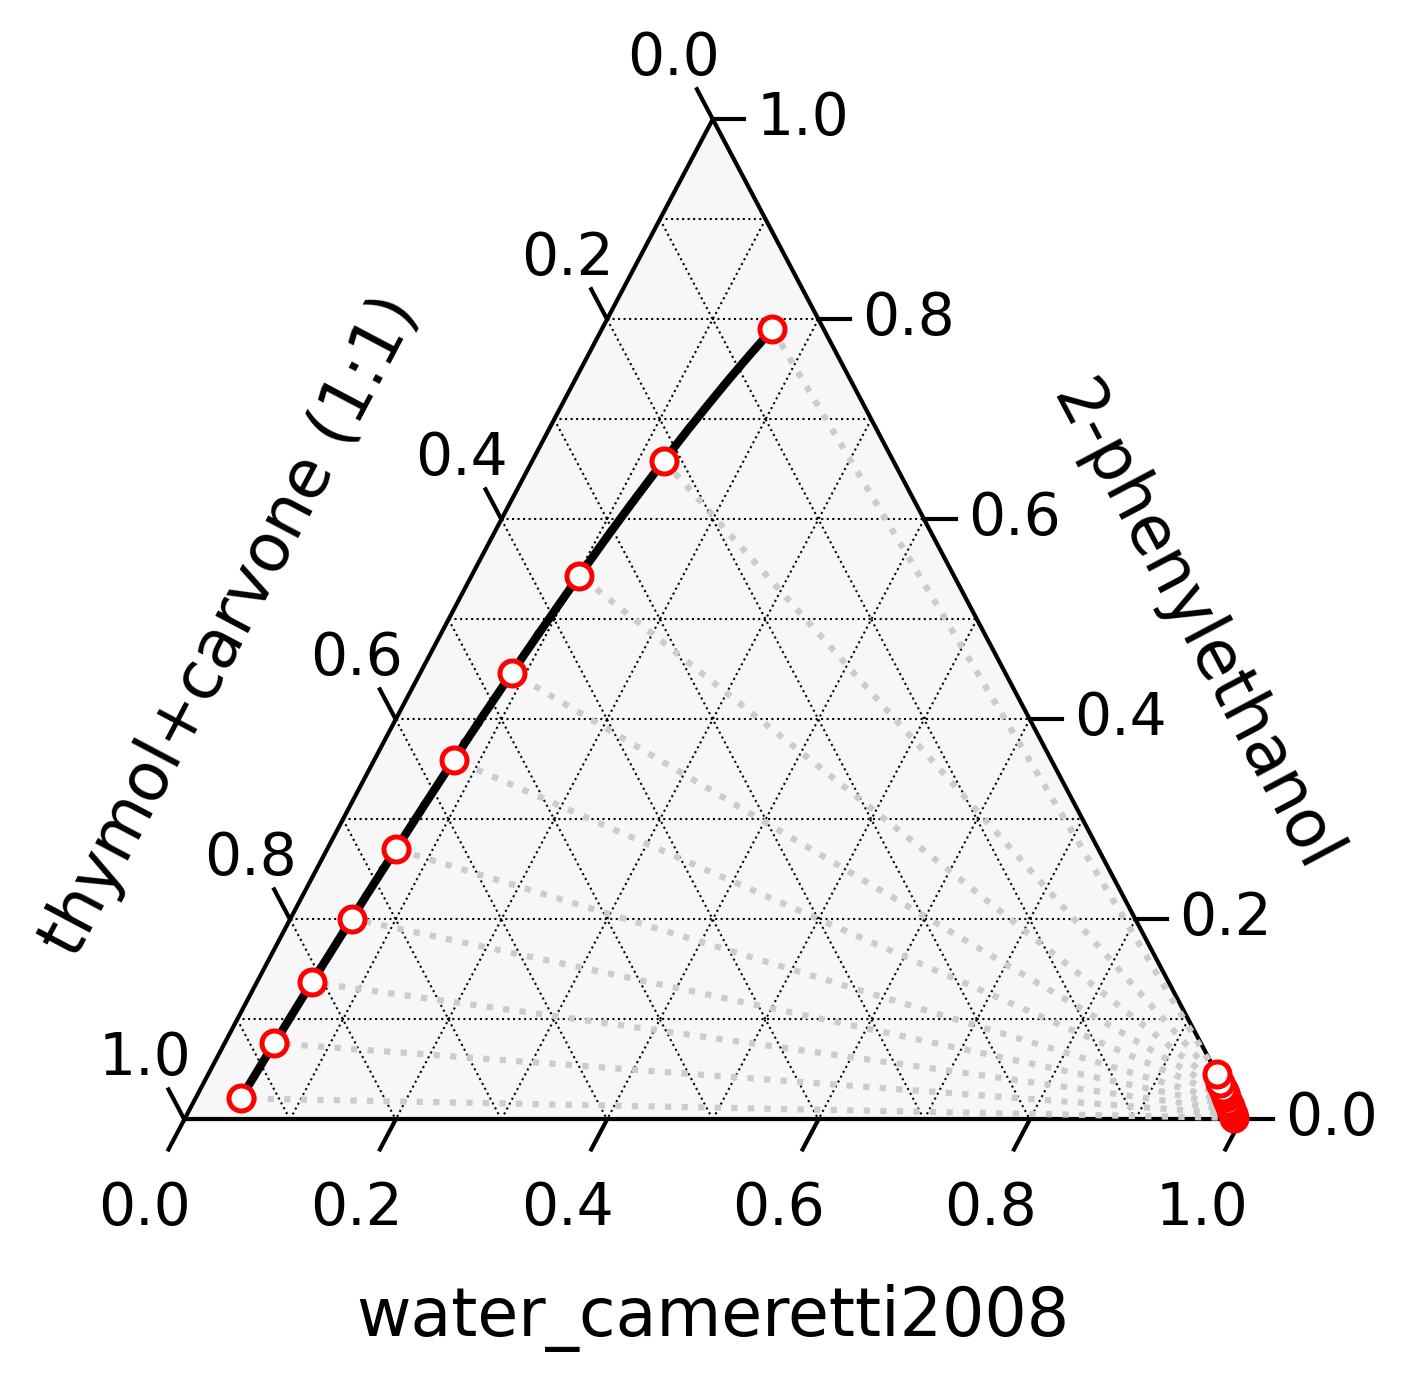
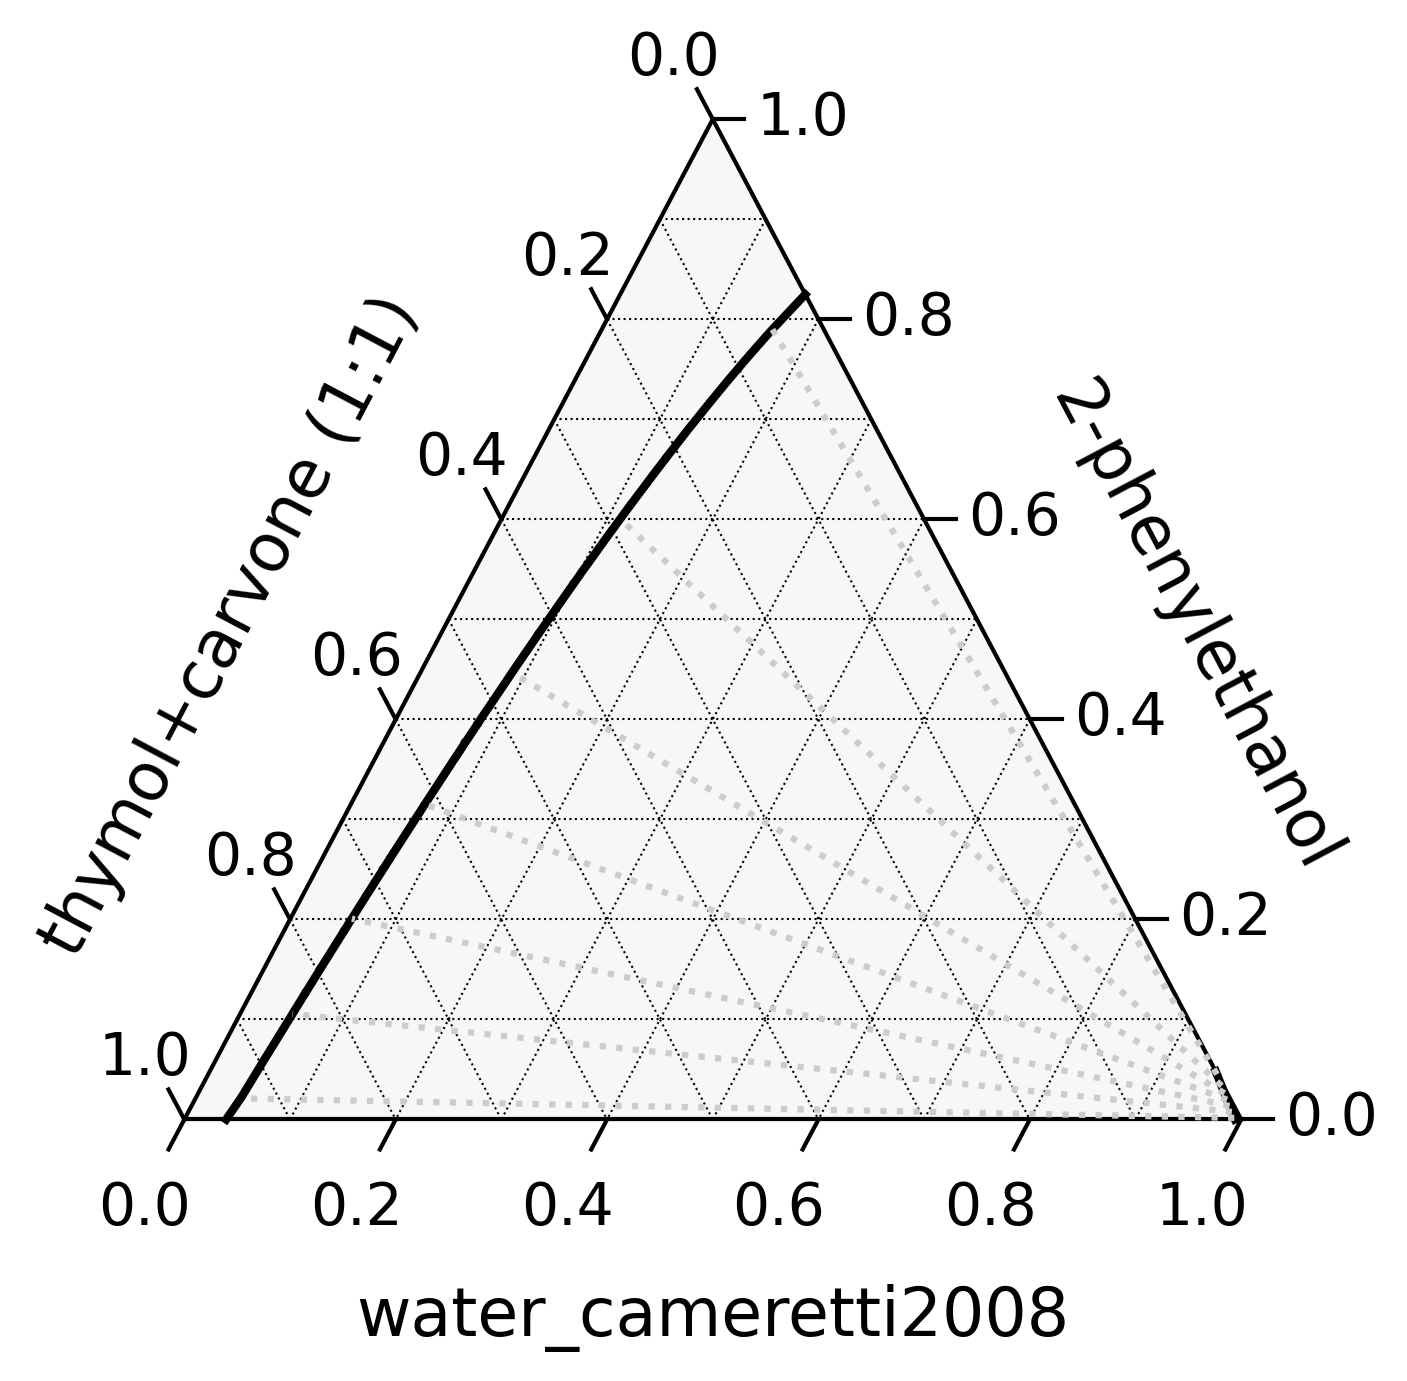
now binaries are plotted

diff --git a/src/pcsaft_quaternary/lle.py b/src/pcsaft_quaternary/lle.py
@@ -250,48 +250,69 @@ def scan_ternary(eos, T, P, n_points=51):
     mirror the output of ``scan_pseudoternary`` so that
     ``plot_pseudoternary_lle`` can be reused unchanged.
     """
+    _mol_m3 = si.MOL / si.METER**3
+
+    def _flash_lle(feed):
+        f = np.where(feed < 1e-6, 1e-6, feed)
+        f = f / f.sum()
+        try:
+            result = PhaseEquilibrium.tp_flash(eos, T, P, f * si.MOL, max_iter=50)
+        except Exception:
+            return None
+        x1 = np.array(result.liquid.molefracs)
+        x2 = np.array(result.vapor.molefracs)
+        rho1 = result.liquid.density / _mol_m3
+        rho2 = result.vapor.density / _mol_m3
+        if rho1 <= 600 or rho2 <= 600:
+            return None
+        if np.allclose(x1, x2, atol=1e-4):
+            return None
+        return f, x1, x2
+
     results = []
     n = n_points
 
-    for i in range(0, n + 1):  # component A
-        for j in range(0, n - i + 1):  # component B
-            k = n - i - j  # component C
-            # Skip pure-component corners
-            if (i == 0) + (j == 0) + (k == 0) >= 2:
+    # --- interior scan ---
+    for i in range(1, n + 1):
+        for j in range(1, n - i + 1):
+            k = n - i - j
+            if k < 1:
                 continue
-
             feed = np.array([i / n, j / n, k / n], dtype=float)
-            feed = feed / feed.sum()
-
-            try:
-                result = PhaseEquilibrium.tp_flash(
-                    eos, T, P, feed * si.MOL, max_iter=50000
-                )
-            except Exception:
+            hit = _flash_lle(feed)
+            if hit is None:
                 continue
+            f, x1, x2 = hit
+            results.append({
+                "feed_pseudo":   tuple(float(v) for v in f),
+                "phase1_pseudo": tuple(float(v) for v in x1),
+                "phase2_pseudo": tuple(float(v) for v in x2),
+                "feed_3comp":    f,
+                "phase1_3comp":  x1,
+                "phase2_3comp":  x2,
+            })
 
-            x1 = np.array(result.liquid.molefracs)
-            x2 = np.array(result.vapor.molefracs)
-
-            _mol_m3 = si.MOL / si.METER**3
-            rho1 = result.liquid.density / _mol_m3
-            rho2 = result.vapor.density / _mol_m3
-            if rho1 <= 600 or rho2 <= 600:
+    # --- binary edge scan: one representative per edge ---
+    edges = [
+        [np.array([0.0, j/n, (n-j)/n]) for j in range(1, n)],  # A=0
+        [np.array([i/n, 0.0, (n-i)/n]) for i in range(1, n)],  # B=0
+        [np.array([i/n, (n-i)/n, 0.0]) for i in range(1, n)],  # C=0
+    ]
+    for edge in edges:
+        for feed in edge:
+            hit = _flash_lle(feed)
+            if hit is None:
                 continue
-
-            if np.allclose(x1, x2, atol=1e-4):
-                continue
-
-            results.append(
-                {
-                    "feed_pseudo": tuple(float(v) for v in feed),
-                    "phase1_pseudo": tuple(float(v) for v in x1),
-                    "phase2_pseudo": tuple(float(v) for v in x2),
-                    "feed_3comp": feed,
-                    "phase1_3comp": x1,
-                    "phase2_3comp": x2,
-                }
-            )
+            f, x1, x2 = hit
+            results.append({
+                "feed_pseudo":   tuple(float(v) for v in f),
+                "phase1_pseudo": tuple(float(v) for v in x1),
+                "phase2_pseudo": tuple(float(v) for v in x2),
+                "feed_3comp":    f,
+                "phase1_3comp":  x1,
+                "phase2_3comp":  x2,
+            })
+            break
 
     return results
 
@@ -326,61 +347,81 @@ def scan_pseudoternary(eos, T, P, solvent_ratio, n_points=51):
         - ``phase1_4comp``  : np.ndarray  4-component mole fractions of phase 1
         - ``phase2_4comp``  : np.ndarray  4-component mole fractions of phase 2
     """
+    _mol_m3 = si.MOL / si.METER**3
+
+    def _flash_lle(feed):
+        """Return (x1, x2) if feed splits into two liquids, else None."""
+        f = np.where(feed < 1e-6, 1e-6, feed)
+        f = f / f.sum()
+        try:
+            result = PhaseEquilibrium.tp_flash(eos, T, P, f * si.MOL, max_iter=50)
+        except Exception:
+            return None
+        x1 = np.array(result.liquid.molefracs)
+        x2 = np.array(result.vapor.molefracs)
+        rho1 = result.liquid.density / _mol_m3
+        rho2 = result.vapor.density / _mol_m3
+        if rho1 <= 600 or rho2 <= 600:
+            return None
+        if np.allclose(x1, x2, atol=1e-4):
+            return None
+        return f, x1, x2
+
     results = []
     n = n_points
 
-    for i in range(0, n + 1):  # solute  (0 → include solvent/diluent binary)
-        for j in range(
-            0, n - i + 1
-        ):  # pseudo-solvent (0 → include solute/diluent binary)
-            k = n - i - j  # diluent (0 → include solute/solvent binary)
-            # Skip pure-component corners (at least two axes zero simultaneously)
-            if (i == 0) + (j == 0) + (k == 0) >= 2:
+    # --- interior scan ---
+    for i in range(1, n + 1):
+        for j in range(1, n - i + 1):
+            k = n - i - j
+            if k < 1:
                 continue
-
-            # 4-component feed: preserve solvent sub-ratio
-            x_solute = i / n
             x_solvent_total = j / n
-            x_solvent1 = solvent_ratio * x_solvent_total
-            x_solvent2 = (1.0 - solvent_ratio) * x_solvent_total
-            x_diluent = k / n
-
-            feed = np.array([x_solute, x_solvent1, x_solvent2, x_diluent])
-            # Numerical guard: ensure feed sums to 1
-            feed = feed / feed.sum()
-
-            try:
-                result = PhaseEquilibrium.tp_flash(
-                    eos, T, P, feed * si.MOL, max_iter=10000
-                )
-            except Exception:
+            feed = np.array([
+                i / n,
+                solvent_ratio * x_solvent_total,
+                (1.0 - solvent_ratio) * x_solvent_total,
+                k / n,
+            ])
+            hit = _flash_lle(feed)
+            if hit is None:
                 continue
+            f, x1, x2 = hit
+            results.append({
+                "feed_pseudo":   _to_pseudo_ternary(f),
+                "phase1_pseudo": _to_pseudo_ternary(x1),
+                "phase2_pseudo": _to_pseudo_ternary(x2),
+                "feed_4comp":    f,
+                "phase1_4comp":  x1,
+                "phase2_4comp":  x2,
+            })
 
-            # Extract compositions from both phases
-            x1 = np.array(result.liquid.molefracs)
-            x2 = np.array(result.vapor.molefracs)
-
-            # Accept as LLE only if both phases are liquid.
-            # density is molar (mol/m³); gas at 1 atm/25°C ≈ 41 mol/m³, liquids > 1000 mol/m³.
-            _mol_m3 = si.MOL / si.METER**3
-            rho1 = result.liquid.density / _mol_m3
-            rho2 = result.vapor.density / _mol_m3
-            if rho1 <= 600 or rho2 <= 600:
+    # --- binary edge scan: one representative per edge ---
+    # Edge 1: solute = 0  (pseudo-solvent / diluent binary)
+    # Edge 2: pseudo-solvent = 0  (solute / diluent binary)
+    # Edge 3: diluent = 0  (solute / pseudo-solvent binary)
+    edges = [
+        [np.array([0.0, solvent_ratio * (j/n), (1-solvent_ratio) * (j/n), (n-j)/n])
+         for j in range(1, n)],
+        [np.array([i/n, 0.0, 0.0, (n-i)/n])
+         for i in range(1, n)],
+        [np.array([i/n, solvent_ratio * ((n-i)/n), (1-solvent_ratio) * ((n-i)/n), 0.0])
+         for i in range(1, n)],
+    ]
+    for edge in edges:
+        for feed in edge:
+            hit = _flash_lle(feed)
+            if hit is None:
                 continue
-
-            # Reject trivial (identical) phases
-            if np.allclose(x1, x2, atol=1e-4):
-                continue
-
-            results.append(
-                {
-                    "feed_pseudo": _to_pseudo_ternary(feed),
-                    "phase1_pseudo": _to_pseudo_ternary(x1),
-                    "phase2_pseudo": _to_pseudo_ternary(x2),
-                    "feed_4comp": feed,
-                    "phase1_4comp": x1,
-                    "phase2_4comp": x2,
-                }
-            )
+            f, x1, x2 = hit
+            results.append({
+                "feed_pseudo":   _to_pseudo_ternary(f),
+                "phase1_pseudo": _to_pseudo_ternary(x1),
+                "phase2_pseudo": _to_pseudo_ternary(x2),
+                "feed_4comp":    f,
+                "phase1_4comp":  x1,
+                "phase2_4comp":  x2,
+            })
+            break  # one per edge is enough
 
     return results

diff --git a/src/pcsaft_quaternary/plot.py b/src/pcsaft_quaternary/plot.py
@@ -67,11 +67,20 @@ def plot_pseudoternary_lle(tie_line_data, names_pseudo, T_K, P_Pa, output_path):
     tax.plot(_arr(phase1_sorted), color=_BINODAL, linewidth=2.0, label="PC-SAFT binodal")
     tax.plot(_arr(phase2_sorted), color=_BINODAL, linewidth=2.0)
 
-    # --- tie-lines: 10 evenly spaced along the binodal ---
-    # Sort by solute fraction in the solvent-rich phase so spacing follows the curve.
-    sorted_tl = sorted(tie_line_data, key=lambda d: d["phase2_pseudo"][0])
-    n_show = min(10, len(sorted_tl))
-    tl_indices = np.linspace(0, len(sorted_tl) - 1, n_show, dtype=int)
+    # --- tie-lines: 10 evenly spaced, interior only (edge tielines lie on the
+    # boundary and are already visible via the binodal curve) ---
+    _EDGE_TOL = 1e-3
+    interior_tl = [
+        d for d in tie_line_data
+        if not any(
+            d["phase1_pseudo"][k] < _EDGE_TOL and d["phase2_pseudo"][k] < _EDGE_TOL
+            for k in range(3)
+        )
+    ]
+    sorted_tl = sorted(interior_tl, key=lambda d: d["phase2_pseudo"][0])
+    n_show = min(7, len(sorted_tl))
+    tl_indices = np.linspace(0, len(sorted_tl) - 1, n_show, dtype=int) if sorted_tl else []
+
     print(
         f"Tie-lines [{names_pseudo[0]} | {names_pseudo[1]} | {names_pseudo[2]}] "
         f"at T = {T_K - 273.15:.2f} °C, P = {P_Pa / 1e5:.3f} bar"
@@ -80,19 +89,15 @@ def plot_pseudoternary_lle(tie_line_data, names_pseudo, T_K, P_Pa, output_path):
     for idx in tl_indices:
         p1 = sorted_tl[idx]["phase1_pseudo"]
         p2 = sorted_tl[idx]["phase2_pseudo"]
-        # Remap coords to match axis convention (bottom=diluent, right=solute, left=solvent)
         p1_plot = (p1[2], p1[0], p1[1])
         p2_plot = (p2[2], p2[0], p2[1])
         tax.line(
             p1_plot, p2_plot,
             linewidth=1.5,
-            markersize=6,
-            markeredgewidth=1.2,
-            markeredgecolor="red",
-            markerfacecolor="white",
-            marker="o",
+            marker=None,
             color=_TIELINE,
             linestyle=":",
+            zorder=5,
         )
         print(
             f"  Tie-line {idx:3d}: "
